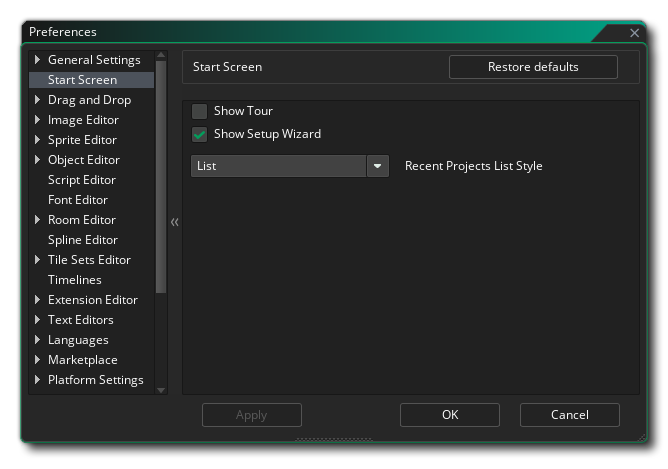
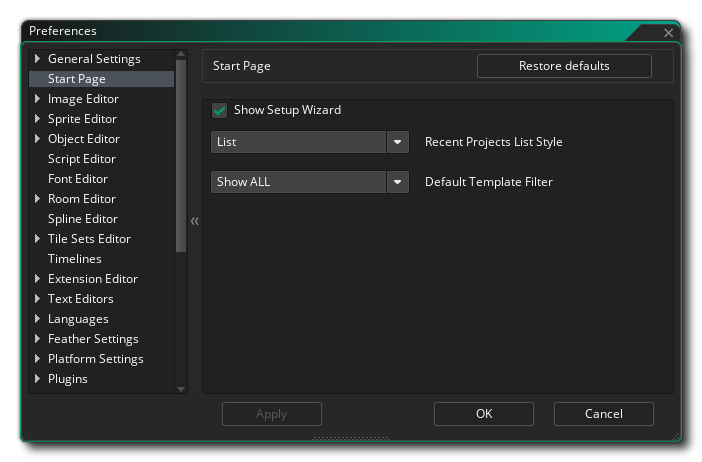
docs(general): Start Page Preferences page is outdated YoYoGames/GameMaker-Manual#327
Updated the screenshot and the list of preferences on the manual page to correspond to the current state

diff --git a/Manual/contents/Setting_Up_And_Version_Information/IDE_Preferences/Start_Screen_Preferences.htm b/Manual/contents/Setting_Up_And_Version_Information/IDE_Preferences/Start_Screen_Preferences.htm
@@ -3,35 +3,34 @@
 <html xmlns="http://www.w3.org/1999/xhtml">
 <head>
   <meta http-equiv="Content-Type" content="text/html; charset=utf-8" />
-  <title>Start Screen Preferences</title>
-  <meta name="generator" content="Adobe RoboHelp 2020" />
+  <title>Start Page Preferences</title>
+  <meta name="generator" content="Adobe RoboHelp 2022" />
   <link rel="stylesheet" href="../../assets/css/default.css" type="text/css" />
   <script src="../../assets/scripts/main_script.js" type="module"></script>
   <meta name="rh-authors" content="Gurpreet S. Matharoo" />
-  <meta name="topic-comment" content="The Start Screen Preferences" />
+  <meta name="topic-comment" content="The Start Page Preferences" />
   <meta name="rh-index-keywords" content="Prefs - Start Screen" />
   <meta name="search-keywords" content="Start Screen prefs,Start Screen preferences,Start Screen" />
 </head>
 <body>
   <!--<div class="body-scroll" style="top: 150px;">-->
-  <h1>Start Screen Preferences</h1>
-  <p><img class="center" src="../../assets/Images/Setup_And_Version/Preferences/Start_Screen_Preferences.png" />The Start Screen Preferences allow you to change how the Start Page behaves. The main options are:</p>
+  <h1><span data-field="title" data-format="default">Start Page Preferences</span></h1>
+  <p><img class="center" src="../../assets/Images/Setup_And_Version/Preferences/Start_Screen_Preferences.png" />The <span data-field="title" data-format="default">Start Page Preferences</span> allow you to change how the Start Page behaves. The main options are:</p>
   <ul class="colour">
-    <li><strong>Show Tour</strong>: This allows you to select whether the introductory tour is shown when the IDE is started. This is automatically disabled the first time you skip the tour.</li>
     <li><strong>Show Setup Wizard</strong>: This allows you to select whether the Setup Wizard is shown when the IDE is started. The Setup Wizard essentially takes you through the steps necessary to create a new project.</li>
-    <li><strong>Recent Projects List Style</strong>: This allows you to change the display of the Recent Projects list on the Start Page between &quot;List&quot; and &quot;Grid&quot;.</li>
+    <li><strong>Recent Projects List Style</strong>: This allows you to change the display of the Recent Projects list on the Start Page between <strong>List</strong> and <strong>Grid</strong>.</li>
+    <li><strong>Default Template Filter</strong>: This allows you to set the default filter to apply to the list of templates that is shown. You can choose to <strong>Show ALL</strong>, only <strong>Official Templates</strong> or only <strong>User Templates</strong>.</li>
   </ul>
-  <p> </p>
   <p> </p>
   <p> </p>
   <div class="footer">
     <div class="buttons">
       <div class="clear">
-        <div style="float:left">Back: <a href="../IDE_Preferences.htm">IDE Preferences</a></div>
+        <div style="float:left">Back: <a data-xref="{title}" href="../IDE_Preferences.htm">IDE Preferences</a></div>
         <div style="float:right">Next: <a data-xref="{title}" href="Image_Editor_Preferences.htm">Image Editor Preferences</a></div>
       </div>
     </div>
-    <h5><span data-keyref="Copyright Notice">© Copyright YoYo Games Ltd. 2022 All Rights Reserved</span></h5>
+    <h5><span data-keyref="Copyright Notice">© Copyright YoYo Games Ltd. 2025 All Rights Reserved</span></h5>
   </div>
   <!-- KEYWORDS
 Preferences - Start Screen

diff --git a/Manual/contents/Setting_Up_And_Version_Information/IDE_Preferences.htm b/Manual/contents/Setting_Up_And_Version_Information/IDE_Preferences.htm
@@ -14,7 +14,7 @@
 </head>
 <body>
   <!--<div class="body-scroll" style="top: 150px;">-->
-  <h1>IDE Preferences</h1>
+  <h1><span data-field="title" data-format="default">IDE Preferences</span></h1>
   <p><img alt="Preferences" class="center" src="../assets/Images/Setup_And_Version/Getting_Started_Prefs.png" />The <strong>Preferences Window</strong> is an essential part of <span data-keyref="GameMaker Name">GameMaker</span>, as it is where you can set up and customise your experience using the IDE as well as set up any specific platform SDK&#39;s, etc.</p>
   <p>In this section we cover the IDE specific areas of the preferences window - for the individual target platforms please see the section on <a data-xref="{title}" href="Platform_Preferences.htm">Platform Preferences</a>. Note that after changing any preferences from this window you need to click the <strong>Apply </strong>button for them to take effect.</p>
   <p>If, after changing the options here to customise <span data-keyref="GameMaker Name">GameMaker</span> to your own tastes, you wish to back up the preferences that you have set you need to go to this folder on Windows:</p>
